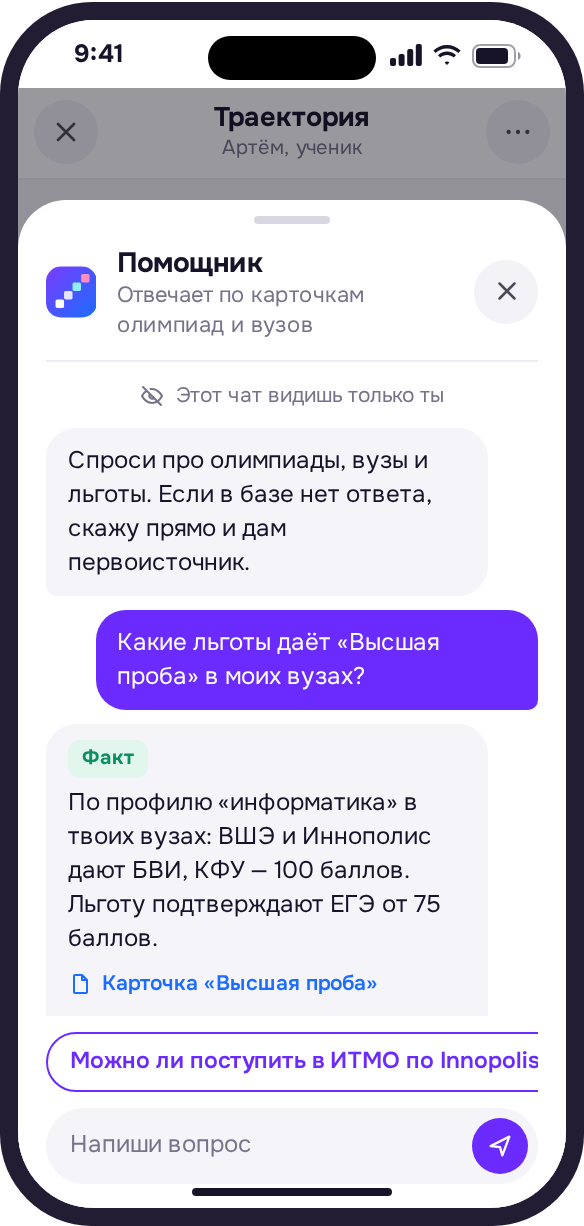
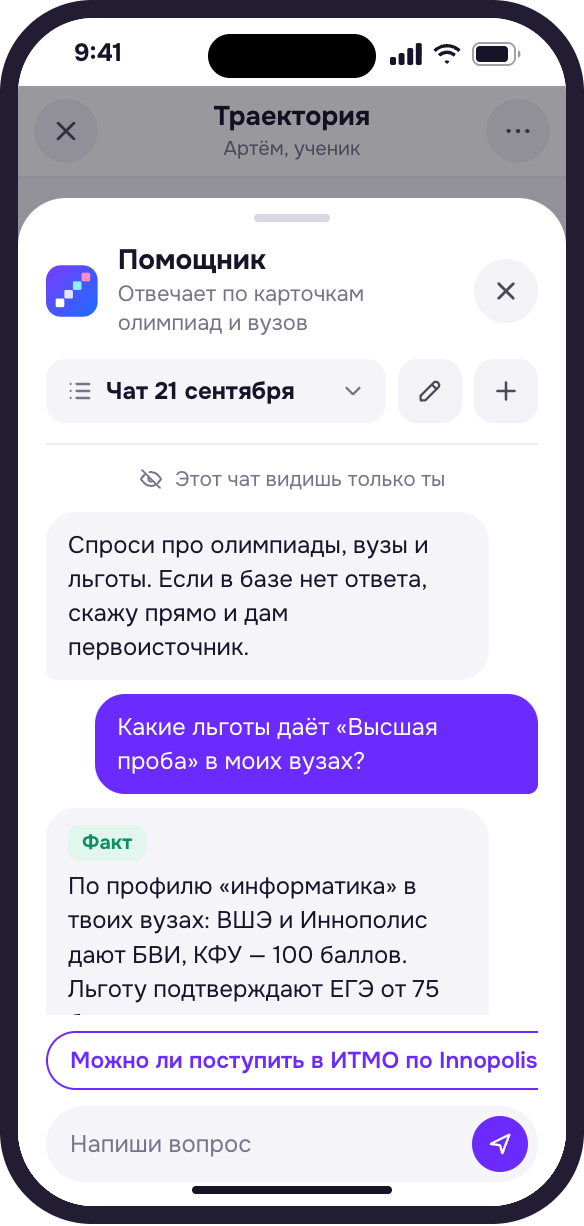
docs: макеты нескольких чатов помощника и контекста разговора
Экраны F3–F5: уточняющий вопрос без названия олимпиады, переименование
чата и список чатов. F1 и F2 пересняты с новой полосой чата. Ветка
помощника в юзер-флоу, функции 58–60 в списке функций и в ТЗ.

diff --git a/docs/prototype/index.html b/docs/prototype/index.html
@@ -344,7 +344,7 @@ h3.grp:before{content:"";width:14px;height:14px;background:var(--c,var(--violet)
 
 /* ai */
 .sheet.ai{height:90%;max-height:90%;display:flex;flex-direction:column;padding-bottom:12px;overflow:hidden}
-.ai-h{display:flex;gap:10px;align-items:center;padding-bottom:10px;border-bottom:1px solid var(--ln)}
+.ai-h{display:flex;gap:10px;align-items:center;padding-bottom:2px}
 .ai-b{flex:1;min-height:0;overflow-y:auto;padding:10px 0;display:flex;flex-direction:column;gap:7px;scrollbar-width:none}
 .am{max-width:90%;padding:8px 11px;border-radius:15px;font-size:12px;line-height:1.42}
 .am.b{background:var(--bgA);align-self:flex-start;border-bottom-left-radius:5px}
@@ -360,6 +360,21 @@ h3.grp:before{content:"";width:14px;height:14px;background:var(--c,var(--violet)
 .ai-q .chip{border-color:var(--p);color:var(--p)}
 .ai-in{flex:0 0 38px;display:flex;gap:6px;align-items:center;border-radius:19px;background:var(--bgA);padding:0 5px 0 12px;font-size:12px;color:var(--mu)}
 .snd{margin-left:auto;width:28px;height:28px;border-radius:50%;background:var(--p);color:#fff;display:grid;place-items:center}
+.ai-bar{display:flex;align-items:center;gap:6px;padding:8px 0 10px;border-bottom:1px solid var(--ln)}
+.ai-cur{flex:1;min-width:0;display:flex;align-items:center;gap:6px;height:32px;padding:0 10px;border-radius:10px;background:var(--bgA);font-weight:700;font-size:12px;color:var(--tx)}
+.ai-cur span{flex:1;min-width:0;overflow:hidden;text-overflow:ellipsis;white-space:nowrap;text-align:left}
+.ai-cur svg{flex:0 0 auto;color:var(--mu)}
+.ai-ib{border-radius:10px}
+.ai-ib.ok{background:var(--p);color:#fff}
+.ai-fld{flex:1;min-width:0;height:32px;border:1.5px solid var(--p);border-radius:10px;padding:0 10px;font:inherit;font-size:12px;font-weight:700;color:var(--tx);background:#fff;outline:0}
+.ai-list{gap:0}
+.ai-new{display:flex;align-items:center;gap:8px;width:100%;padding:11px 2px;border-bottom:1px solid var(--ln);font-weight:700;font-size:12.5px;color:var(--p);text-align:left}
+.ai-row{display:flex;align-items:center;gap:10px;width:100%;padding:10px 2px;border-bottom:1px solid var(--ln);text-align:left}
+.ai-row-m{flex:1;min-width:0;display:flex;flex-direction:column;gap:2px}
+.ai-row-m b{font-size:12.5px;overflow:hidden;text-overflow:ellipsis;white-space:nowrap}
+.ai-row-m small{font-size:10.5px;color:var(--mu)}
+.ai-row.on b{color:var(--p)}
+.ai-on{color:var(--p);display:flex}
 
 /* splash / launch */
 .spl{flex:1;display:flex;flex-direction:column;align-items:center;justify-content:center;gap:9px;background:radial-gradient(80% 55% at 50% 38%,#ECE3FF,#fff 72%)}
@@ -557,7 +572,7 @@ nav.toc{top:env(safe-area-inset-top,0px)}
 </header>
 
 <nav class="toc" aria-label="Разделы"><div class="wrap">
-  <a href="#entry">Вход и онбординг</a><a href="#app">Мини-приложение</a><a href="#bot">Сообщения бота</a><a href="#cov">Функции 1–51</a><a href="#flow">User flow</a>
+  <a href="#entry">Вход и онбординг</a><a href="#app">Мини-приложение</a><a href="#bot">Сообщения бота</a><a href="#cov">Функции</a><a href="#flow">User flow</a>
 </div></nav>
 
 <main class="wrap">
@@ -600,7 +615,7 @@ nav.toc{top:env(safe-area-inset-top,0px)}
 
   <section id="cov">
     <h2>Где на макетах каждая функция</h2>
-    <p class="lead">Все 51 функция первой версии. Метки справа ведут к экранам, где функция показана.</p>
+    <p class="lead">Все 54 функции первой версии. Метки справа ведут к экранам, где функция показана.</p>
     <ul class="cov" id="cov-list"></ul>
   </section>
 
@@ -641,9 +656,15 @@ flowchart TD
   REM --> RG{"Зарегистрировались?"}
   RG -->|"Отметил любой участник"| DONE["Статус «зарегистрирован», новый следующий шаг"]
   RG -.->|"Напомнить завтра"| REM
-  H --> AI["ИИ-помощник: личный чат"]
-  AI --> AIQ{"Ответ есть в базе?"}
-  AIQ -->|"Да"| AIA["Ответ со ссылкой на карточку и источник"]
+  H -->|"Спросить"| AI["ИИ-помощник: последний чат, помнит 10 реплик"]
+  AI -->|"Чаты"| AIL["Список чатов: свежие сверху"]
+  AIL -->|"Выбрать"| AI
+  AIL -->|"Новый чат"| AIE["Пустой чат с подсказками"]
+  AIE -->|"Первый вопрос"| AIT["Чат назван по дню: «Чат 21 сентября»"]
+  AIT --> AI
+  AI -.->|"Переименовать"| AIR["Своё название чата"]
+  AI --> AIQ{"Есть карточки: по последнему вопросу или из прошлых ответов?"}
+  AIQ -->|"Да"| AIA["Ответ с учётом разговора: карточка и источник"]
   AIQ -.->|"Нет"| AIN["«Данных нет» и первоисточник"]
   INV["Одноразовая ссылка-приглашение"] --> J["Приглашённый: приветствие по имени, подтвердить имя и цель"]
   J --> SH["Общая траектория: те же олимпиады, сроки и статусы"]
@@ -657,7 +678,7 @@ flowchart TD
   classDef app fill:#EFE8FF,stroke:#6B2BFF,color:#17142A
   classDef fam fill:#FFE8F1,stroke:#E92E78,color:#17142A
   class B,N1,N2,Q,G1,G2,V,R,REM,PR,NT chat
-  class H,SEL,CAT,OC,VC,TR,DONE,AI,AIA,AIN app
+  class H,SEL,CAT,OC,VC,TR,DONE,AI,AIL,AIE,AIT,AIR,AIA,AIN app
   class INV,J,SH,DEL,OUT fam
 </pre>
     </div>
@@ -691,7 +712,8 @@ const P={
  link:'M10 14a5 5 0 007 0l3-3a5 5 0 00-7-7l-1 1M14 10a5 5 0 00-7 0l-3 3a5 5 0 007 7l1-1', send:'M4 12l16-8-6 16-2-7z',
  refresh:'M20 11a8 8 0 10-2.3 5.7M20 4v7h-7', wifioff:'M3 3l18 18M8.5 16.5a5 5 0 017 0M5 12.9a10 10 0 015.2-2.8M19 12.9a10 10 0 00-2.4-1.7M2 8.8a15 15 0 014.2-2.7M22 8.8A15 15 0 0010.5 5.1M12 20h.01',
  book:'M4 5a2 2 0 012-2h13v16H6a2 2 0 00-2 2zM4 5v16M8 7h7', pin:'M12 21s-7-6.5-7-12a7 7 0 0114 0c0 5.5-7 12-7 12zM12 7a2 2 0 100 4a2 2 0 000-4z',
- out:'M15 4h4a1 1 0 011 1v14a1 1 0 01-1 1h-4M10 17l5-5-5-5M15 12H4', inbox:'M4 13l3-8h10l3 8v6H4zM4 13h5l1 2h4l1-2h5'
+ out:'M15 4h4a1 1 0 011 1v14a1 1 0 01-1 1h-4M10 17l5-5-5-5M15 12H4', inbox:'M4 13l3-8h10l3 8v6H4zM4 13h5l1 2h4l1-2h5',
+ pencil:'M4 20h4L19 9a2.8 2.8 0 00-4-4L4 16zM13.5 6.5l4 4', down:'M6 9l6 6 6-6'
 };
 const ic=(n,s=18,w=2)=>`<svg viewBox="0 0 24 24" width="${s}" height="${s}" fill="none" stroke="currentColor" stroke-width="${n==='dots'?3.2:w}" stroke-linecap="round" stroke-linejoin="round" aria-hidden="true"><path d="${P[n]}"/></svg>`;
 let LG=0;
@@ -769,7 +791,9 @@ function fresh(){return {view:'chat',as:'kid',tab:'home',sheet:[],sheetNew:false
  tracked:new Set(['hse','vsosh','inno']),reg:new Map(),proposals:['tk'],
  filter:'all',catSeg:'oly',q:'',catSubj:'all',catCity:'all',trView:'list',calM:9,
  members:[{n:PAR,r:'Родитель',c:true,col:'#E92E78'},{n:KID,r:'Ученик',col:'#FF8A3D'},{n:'Игорь',r:'Родитель',col:'#1A6DFF'}],
- links:[],ai:{kid:[],parent:[]},loading:false,error:false,empty:false,splash:false,anim:false,
+ links:[],ai:{kid:[],parent:[]},aiCur:'today',aiTitle:null,aiView:'chat',aiRename:null,aiBottom:false,
+ aiOther:AICHATS.map(c=>({...c,log:[...c.log]})),
+ loading:false,error:false,empty:false,splash:false,anim:false,
  kidOk:false,chatRemind:false,matchSeen:false,
  prof:{cls:9,subj:new Set(['inf','math']),vuz:new Set(['inno','kfu','hse'])}};}
 const isP=s=>s.as==='parent';
@@ -1103,17 +1127,49 @@ const AIQ=[
  {q:()=>'Можно ли поступить в ИТМО по Innopolis Open?',warn:true,
   a:s=>`<b>Данных нет.</b> В нашей базе нет правил ИТМО для Innopolis Open, поэтому гадать не буду. ${V(s,'Проверь','Проверьте')} правила приёма ИТМО.<button class="src" data-a="toast" data-v="Откроются правила приёма ИТМО">${ic('ext',12)} Правила приёма ИТМО</button>`},
  {q:()=>'Чем БВИ отличается от 100 баллов?',
-  a:()=>`<span class="tag fact">Факт</span><br><b>БВИ</b> — зачисление без вступительных испытаний. <b>100 баллов</b> — диплом засчитывается как 100 баллов ЕГЭ по профильному предмету.<button class="src" data-a="toast" data-v="Откроется Порядок приёма в вузы">${ic('doc',12)} Порядок приёма, приказ № 821</button>`}
+  a:()=>`<span class="tag fact">Факт</span><br><b>БВИ</b> — зачисление без вступительных испытаний. <b>100 баллов</b> — диплом засчитывается как 100 баллов ЕГЭ по профильному предмету.<button class="src" data-a="toast" data-v="Откроется Порядок приёма в вузы">${ic('doc',12)} Порядок приёма, приказ № 821</button>`},
+ // Уточнение без названия олимпиады: помощник помнит разговор и карточку из прошлого ответа.
+ {q:()=>'А когда у неё регистрация?',follow:true,
+  a:()=>`<span class="tag fact">Факт</span><br>Регистрация на «Высшую пробу» по информатике — до 25 сентября, осталось 4 дня. Отборочный этап пройдёт онлайн в октябре — ноябре.<button class="src" data-a="open" data-v="hse">${ic('doc',12)} Карточка «Высшая проба»</button>`}
 ];
+// Название нового чата — день первой реплики. «Сегодня» в прототипе — 21 сентября.
+const AITODAY='Чат 21 сентября';
+// Прошлые чаты участника: готовые разговоры других дней.
+const AICHATS=[
+ {id:'itmo',t:'Льготы в ИТМО',d:'18 сентября',log:[{i:1}]},
+ {id:'d14',t:'Чат 14 сентября',d:'14 сентября',log:[{i:2}]}
+];
+// Текущий чат: сегодняшний (в том числе новый, ещё без реплик) или один из прошлых.
+function aiChat(s){
+ if(s.aiCur!=='today'){const c=s.aiOther.find(x=>x.id===s.aiCur);return {id:c.id,t:c.t,log:c.log,saved:true};}
+ const log=s.ai[isP(s)?'parent':'kid'];
+ return {id:'today',t:s.aiTitle||(log.length?AITODAY:'Новый чат'),log,saved:log.length>0};
+}
+// Полоса под шапкой: текущий чат, переименование и новый чат.
+function aiBar(s,c){
+ if(s.aiView==='list') return `<div class="ai-bar"><button class="ai-cur" data-a="aichats" aria-label="Вернуться в чат">${ic('back',14)}<span>Чаты</span></button></div>`;
+ if(s.aiRename!==null) return `<div class="ai-bar"><input class="ai-fld" data-ren value="${s.aiRename}" maxlength="60" aria-label="Название чата"><button class="ib ai-ib ok" data-a="aisave" aria-label="Сохранить">${ic('check',15,2.6)}</button><button class="ib ai-ib" data-a="aicancel" aria-label="Отменить">${ic('close',14)}</button></div>`;
+ return `<div class="ai-bar"><button class="ai-cur" data-a="aichats" aria-label="Все чаты">${ic('list',14)}<span>${c.t}</span>${ic('down',13)}</button>${c.saved?`<button class="ib ai-ib" data-a="airename" aria-label="Переименовать чат">${ic('pencil',14)}</button>`:''}<button class="ib ai-ib" data-a="ainew" aria-label="Новый чат">${ic('plus',15)}</button></div>`;
+}
+// Список чатов: свежие сверху, под названием — день последней реплики.
+function aiList(s,c){
+ const today=s.ai[isP(s)?'parent':'kid'];
+ const rows=[...(today.length?[{id:'today',t:s.aiTitle||AITODAY,d:'сегодня'}]:[]),...s.aiOther];
+ return `<div class="ai-b ai-list"><div class="lock" style="justify-content:center;padding:0 0 4px">${ic('eyeoff',12)} ${V(s,'Эти чаты видишь только ты','Эти чаты видите только вы')}</div>
+ <button class="ai-new" data-a="ainew">${ic('plus',15)} Новый чат</button>
+ ${rows.map(r=>`<button class="ai-row ${r.id===c.id?'on':''}" data-a="aipick" data-v="${r.id}" ${r.id===c.id?'aria-current="true"':''}><span class="ai-row-m"><b>${r.t}</b><small>${r.d}</small></span>${r.id===c.id?`<span class="ai-on">${ic('check',14,2.6)}</span>`:''}</button>`).join('')}</div>`;
+}
 function scAI(s){
- const na=s.sheetNew?'':'na', log=s.ai[isP(s)?'parent':'kid'], asked=log.map(x=>x.i);
+ const na=s.sheetNew?'':'na', c=aiChat(s), log=c.log, asked=log.map(x=>x.i);
  const msgs=log.map(x=>`<div class="am u">${AIQ[x.i].q(s)}</div>`+(x.pending?`<div class="am b dots" aria-label="Помощник печатает"><span></span><span></span><span></span></div>`:`<div class="am b ${AIQ[x.i].warn?'warn':''}">${AIQ[x.i].a(s)}</div>`)).join('');
- const left=AIQ.map((q,i)=>i).filter(i=>!asked.includes(i));
+ // Уточнение имеет смысл только после первого вопроса про олимпиаду.
+ const left=AIQ.map((q,i)=>i).filter(i=>!asked.includes(i)&&(!AIQ[i].follow||asked.includes(0)));
+ const body=s.aiView==='list'?aiList(s,c):`<div class="ai-b" data-ai ${s.aiBottom?'data-bottom':''}><div class="lock" style="justify-content:center;padding:0 0 2px">${ic('eyeoff',12)} ${V(s,'Этот чат видишь только ты','Этот чат видите только вы')}</div><div class="am b">${V(s,'Спроси','Спросите')} про олимпиады, вузы и льготы. Если в базе нет ответа, скажу прямо и дам первоисточник.</div>${msgs}</div>
+ ${left.length?`<div class="ai-q">${left.map(i=>`<button class="chip" data-a="ask" data-v="${i}">${AIQ[i].q(s)}</button>`).join('')}</div>`:''}
+ <div class="ai-in">${V(s,'Напиши вопрос','Напишите вопрос')}<span class="snd">${ic('send',14)}</span></div>`;
  return `<div class="shb ${na}" data-a="close"></div><div class="sheet ai ${na}" role="dialog" aria-label="Помощник"><div class="grab"></div>
  <div class="ai-h">${logo(34)}<div><b style="font-size:14px">Помощник</b><div class="dl-s">Отвечает по карточкам олимпиад и вузов</div></div><button class="ib" data-a="close" style="margin-left:auto" aria-label="Закрыть">${ic('close',15)}</button></div>
- <div class="ai-b" data-ai><div class="lock" style="justify-content:center;padding:0 0 2px">${ic('eyeoff',12)} ${V(s,'Этот чат видишь только ты','Этот чат видите только вы')}</div><div class="am b">${V(s,'Спроси','Спросите')} про олимпиады, вузы и льготы. Если в базе нет ответа, скажу прямо и дам первоисточник.</div>${msgs}</div>
- ${left.length?`<div class="ai-q">${left.map(i=>`<button class="chip" data-a="ask" data-v="${i}">${AIQ[i].q(s)}</button>`).join('')}</div>`:''}
- <div class="ai-in">${V(s,'Напиши вопрос','Напишите вопрос')}<span class="snd">${ic('send',14)}</span></div></div>`;
+ ${aiBar(s,c)}${body}</div>`;
 }
 
 const TABS=[['home','Главная','home'],['match','Подбор','target'],['catalog','Каталог','book'],['tracker','Трекер','cal'],['family','Семья','users']];
@@ -1186,11 +1242,32 @@ ps.addEventListener('click',e=>{
   case 'invite': { const code='fam_'+Math.random().toString(36).slice(2,6).toUpperCase(); S.links.push(code); toast('Ссылка создана, она сработает для одного человека'); render(false); break; }
   case 'rmmem': S.members=S.members.filter(m=>m.n!==v); toast(v+' больше не участник траектории'); render(); break;
   case 'leave': toast('Вы вышли из траектории. Вернуться можно по новой ссылке'); break;
-  case 'ask': { const i=+v, key=isP(S)?'parent':'kid'; if(S.ai[key].some(x=>x.i===i)) break; S.ai[key].push({i,pending:true}); render(); setTimeout(()=>{const m=S.ai[key].find(x=>x.i===i); if(m) m.pending=false; render();},900); break; }
+  case 'ask': { const i=+v, log=aiChat(S).log; if(log.some(x=>x.i===i)) break; log.push({i,pending:true}); render(); setTimeout(()=>{const m=log.find(x=>x.i===i); if(m) m.pending=false; render();},900); break; }
+  case 'aichats': S.aiView=S.aiView==='list'?'chat':'list'; S.aiRename=null; S.sheetReset=true; render(); break;
+  case 'aipick': S.aiCur=v; S.aiView='chat'; S.sheetReset=true; render(); break;
+  case 'ainew': {
+   // Сегодняшний чат с репликами уходит в список, новый пуст до первого вопроса.
+   const key=isP(S)?'parent':'kid';
+   if(S.aiCur==='today'&&S.ai[key].length) S.aiOther.unshift({id:'t'+S.aiOther.length,t:S.aiTitle||AITODAY,d:'сегодня',log:S.ai[key]});
+   S.ai[key]=[]; S.aiCur='today'; S.aiTitle=null; S.aiView='chat'; S.aiRename=null; render(); break;
+  }
+  case 'airename': S.aiRename=aiChat(S).t; render(); pin.querySelector('[data-ren]')?.select(); break;
+  case 'aisave': {
+   const val=(pin.querySelector('[data-ren]')?.value||'').trim();
+   if(!val){toast('Название не может быть пустым');break;}
+   if(S.aiCur==='today') S.aiTitle=val; else S.aiOther.find(x=>x.id===S.aiCur).t=val;
+   S.aiRename=null; toast('Название сохранено'); render(); break;
+  }
+  case 'aicancel': S.aiRename=null; render(); break;
   case 'toast': toast(v); break;
  }
 });
 ps.addEventListener('input',e=>{ if(e.target.matches('[data-q]')){ S.q=e.target.value; const c=pin.querySelector('[data-catlist]'); if(c) c.innerHTML=catList(S); } });
+ps.addEventListener('keydown',e=>{
+ if(!e.target.matches('[data-ren]')) return;
+ if(e.key==='Enter') pin.querySelector('[data-a="aisave"]').click();
+ if(e.key==='Escape') pin.querySelector('[data-a="aicancel"]').click();
+});
 document.querySelectorAll('[data-role]').forEach(btn=>btn.addEventListener('click',()=>{
  S.as=btn.dataset.role; S.sheet=[];
  document.querySelectorAll('[data-role]').forEach(b=>{const on=b===btn;b.classList.toggle('on',on);b.setAttribute('aria-pressed',on);});
@@ -1247,7 +1324,10 @@ put('g-e',[
 ]);
 put('g-f',[
  {c:'F1',t:'Ответ с источником',d:'Помощник отвечает по карточкам базы и даёт ссылку на карточку и первоисточник. Чат личный.',f:'35, 37',html:appScreen(st({tab:'home',sheet:[{t:'ai'}],ai:{kid:[{i:0}],parent:[]}}))},
- {c:'F2',t:'Данных нет',d:'Если ответа в базе нет, помощник говорит об этом прямо и отправляет к первоисточнику.',f:'36, 37',html:appScreen(st({tab:'home',sheet:[{t:'ai'}],ai:{kid:[{i:1}],parent:[]}}))}
+ {c:'F2',t:'Данных нет',d:'Если ответа в базе нет, помощник говорит об этом прямо и отправляет к первоисточнику.',f:'36, 37',html:appScreen(st({tab:'home',sheet:[{t:'ai'}],ai:{kid:[{i:1}],parent:[]}}))},
+ {c:'F3',t:'Уточняющий вопрос',d:'Помощник помнит разговор: «А когда у неё регистрация?» понятно без названия олимпиады. Чат назван по дню первого вопроса.',f:'58, 60',html:appScreen(st({tab:'home',sheet:[{t:'ai'}],ai:{kid:[{i:0},{i:3}],parent:[]},aiBottom:true}))},
+ {c:'F4',t:'Переименование',d:'Название чата можно заменить своим — до 60 символов.',f:'59',html:appScreen(st({tab:'home',sheet:[{t:'ai'}],ai:{kid:[{i:0},{i:3}],parent:[]},aiRename:'Высшая проба',aiBottom:true}))},
+ {c:'F5',t:'Список чатов',d:'Новый чат начинается с чистого листа, к прошлым можно вернуться. Свежие сверху.',f:'37, 58, 59',html:appScreen(st({tab:'home',sheet:[{t:'ai'}],ai:{kid:[{i:0},{i:3}],parent:[]},aiTitle:'Высшая проба',aiView:'list'}))}
 ]);
 put('g-g',[
  {c:'G1',t:'Семья глазами создателя',d:'Ольга видит всех участников и может удалить любого приглашённого.',f:'38, 40, 41, 43, 44',html:appScreen(st({as:'parent',tab:'family'}))},
@@ -1279,11 +1359,12 @@ const FUNCS=[
  ['Карточка олимпиады'],[17,'Уровень профиля',['C5']],[18,'Льгота в вузах ученика',['C5']],[19,'Условия',['C5']],[20,'«Почему подходит»',['C6']],[21,'Этапы и даты',['C4']],[22,'Официальный сайт',['C6']],[23,'Вузы, где олимпиада даёт льготу',['C6']],
  ['Каталог'],[24,'Раздел «Олимпиады»',['D1']],[25,'Раздел «Вузы»',['D2','D3']],[26,'Олимпиады из карточки вуза',['D3']],[27,'Поиск и фильтры',['D1','D2']],
  ['Сроки'],[28,'Добавление в трекер',['C6','E1']],[29,'Напоминания за месяц, неделю, 3 дня и 1 день',['I1']],[30,'Кнопки в напоминании',['I1','I2']],[31,'Статусы в трекере',['E1']],[32,'Календарь',['E2']],[33,'Уведомления об изменениях',['I4']],[34,'Следующий шаг на главной',['C1']],
- ['ИИ-помощник'],[35,'Ответы по карточкам со ссылками',['F1']],[36,'«Данных нет» и первоисточник',['F2']],[37,'Личный чат у каждого',['F1','F2']],
+ ['ИИ-помощник'],[35,'Ответы по карточкам со ссылками',['F1']],[36,'«Данных нет» и первоисточник',['F2']],[37,'Личный чат у каждого',['F1','F2','F5']],
+ [58,'Несколько чатов: новый чат и переключение',['F5']],[59,'Название чата по дню первого вопроса, переименование',['F3','F4','F5']],[60,'Помощник помнит 10 последних реплик чата',['F3']],
  ['Семья'],[38,'Создатель траектории',['G1','G3']],[39,'Одноразовая ссылка',['B3','G2']],[40,'Сколько угодно приглашённых',['G1','G2']],[41,'Создатель удаляет приглашённых',['G1']],[42,'Приглашённого встречают по имени',['B4']],[43,'Общая траектория',['G1','G3']],[44,'Напоминания всем участникам',['E1','I2']],[45,'Родитель предлагает, ученик подтверждает',['E1','E3','I3']],[46,'Отметку ставит любой участник',['E1','I2']],[47,'Объяснение льгот для родителя',['C2']],[48,'Выход из траектории',['G3','I7']],
  ['Профиль и данные'],[49,'Правка профиля',['H1']],[50,'/delete только для создателя',['I6','I7']],[51,'Команды /start, /menu, /help, /settings',['I5']]
 ];
-document.querySelectorAll('.static .sheet[data-bottom]').forEach(el=>{el.scrollTop=el.scrollHeight;});
+document.querySelectorAll('.static .sheet[data-bottom], .static .ai-b[data-bottom]').forEach(el=>{el.scrollTop=el.scrollHeight;});
 document.getElementById('cov-list').innerHTML=FUNCS.map(f=>f.length===1?`<li class="h">${f[0]}</li>`:`<li><b>${f[0]}</b><span>${f[1]}</span><span class="refs">${f[2].map(c=>`<a href="#scr-${c}">${c}</a>`).join('')}</span></li>`).join('');
 })();
 

diff --git a/docs/README.md b/docs/README.md
@@ -9,11 +9,11 @@
 | Файл | О чём |
 |---|---|
 | [проблема.md](проблема.md) | Проблема одним предложением и по пунктам: каждый пункт = боль + решение в продукте |
-| [функции.md](функции.md) | Полный список функций (57 пунктов) по блокам: вход, онбординг, подбор, карточка олимпиады, каталог, сроки, ИИ-помощник, семья, профиль. Отдельно помечено «если останется время» и «после пилота» |
+| [функции.md](функции.md) | Полный список функций (60 пунктов) по блокам: вход, онбординг, подбор, карточка олимпиады, каталог, сроки, ИИ-помощник, семья, профиль. Отдельно помечено «если останется время» и «после пилота» |
 | [позиционирование и конкуренты.md](<позиционирование и конкуренты.md>) | 7 групп конкурентов, слабое место каждой, наша ниша и короткий ответ жюри на «чем вы лучше olimpiada.ru» |
 | [аналитический отчет.pdf](<аналитический отчет.pdf>) | Аналитика на 7 частей: актуальность с цифрами и источниками, конкурентный анализ и УТП, платформа MAX (Bot API, мини-приложения), правовые вопросы, проработка сценариев, функционал, оценка рисков. Каждое утверждение помечено как факт / допущение / гипотеза |
 | [прототип](prototype/index.html) | Интерактивный прототип: все экраны первой версии в одном файле. Эталон поведения и текстов |
-| [screens/](screens/) | 40 PNG-макетов экранов, коды A1–I7. Опись с описанием каждого экрана и номерами функций — в [screens/README.md](screens/README.md) |
+| [screens/](screens/) | 43 PNG-макета экранов, коды A1–I7. Опись с описанием каждого экрана и номерами функций — в [screens/README.md](screens/README.md) |
 
 Исходники хакатона (описание кейса, Q&A с организаторами) — в [hackathon/](hackathon/).
 
@@ -49,7 +49,7 @@
 
 ## Макеты
 
-Прототип — [prototype/index.html](prototype/index.html), отрисованные экраны — [screens/](screens/), 40 штук с кодами A1–I7. Каждый экран в [описи](screens/README.md) привязан к номерам функций из [функции.md](функции.md), так что видно, что уже спроектировано, а что нет.
+Прототип — [prototype/index.html](prototype/index.html), отрисованные экраны — [screens/](screens/), 43 штуки с кодами A1–I7. Каждый экран в [описи](screens/README.md) привязан к номерам функций из [функции.md](функции.md), так что видно, что уже спроектировано, а что нет.
 
 | Группа | Экраны | Что покрывает |
 |---|---|---|
@@ -58,7 +58,7 @@
 | **C** | C1–C6 | Главная ученика и родителя, подбор, ветка ВсОШ, карточка олимпиады |
 | **D** | D1–D3 | Каталог олимпиад, каталог вузов, карточка вуза |
 | **E** | E1–E3 | Трекер, календарь сроков, предложение олимпиады от родителя |
-| **F** | F1–F2 | ИИ-помощник: ответ с источником и честное «данных нет» |
+| **F** | F1–F5 | ИИ-помощник: ответ с источником, честное «данных нет», уточняющий вопрос, несколько чатов и переименование |
 | **G** | G1–G3 | Семья: состав участников, одноразовая ссылка, выход из траектории |
 | **H** | H1–H4 | Профиль и состояния интерфейса: загрузка, пустой результат, ошибка сети |
 | **I** | I1–I7 | Сообщения бота: напоминания, предложения, изменения правил, команды, удаление |

diff --git a/docs/screens/README.md b/docs/screens/README.md
@@ -37,6 +37,9 @@
 | **F** | **ИИ-помощник** | | |
 | [F1](F1.png) | Ответ с источником | Помощник отвечает по карточкам базы и даёт ссылку на карточку и первоисточник. Чат личный. | 35, 37 |
 | [F2](F2.png) | Данных нет | Если ответа в базе нет, помощник говорит об этом прямо и отправляет к первоисточнику. | 36, 37 |
+| [F3](F3.png) | Уточняющий вопрос | Помощник помнит разговор: «А когда у неё регистрация?» понятно без названия олимпиады. Чат назван по дню первого вопроса. | 58, 60 |
+| [F4](F4.png) | Переименование | Название чата можно заменить своим — до 60 символов. | 59 |
+| [F5](F5.png) | Список чатов | Новый чат начинается с чистого листа, к прошлым можно вернуться. Свежие сверху. | 37, 58, 59 |
 | **G** | **Семья** | | |
 | [G1](G1.png) | Семья глазами создателя | Ольга видит всех участников и может удалить любого приглашённого. | 38, 40, 41, 43, 44 |
 | [G2](G2.png) | Одноразовая ссылка | Каждая ссылка срабатывает для одного человека, приглашать можно сколько угодно людей. | 39, 40 |

diff --git a/docs/функции.md b/docs/функции.md
@@ -51,6 +51,12 @@
 36. Если ответа в базе нет — прямое «данных нет» и ссылка на первоисточник
 37. У каждого участника свой личный чат с помощником, другой его не видит
 
+Добавлено после первой версии:
+
+58. Несколько чатов с помощником: новый чат и переключение между прошлыми
+59. Чат называется по дню первого вопроса («Чат 21 сентября»), название можно заменить своим
+60. Помощник помнит 10 последних реплик чата и карточки, на которые опирались ответы; новые карточки ищет только по последнему вопросу
+
 **Семья**
 38. Создатель траектории — тот, кто первым прошёл онбординг: ребёнок или родитель
 39. Ссылка-приглашение одноразовая: по ней может подключиться только один человек
